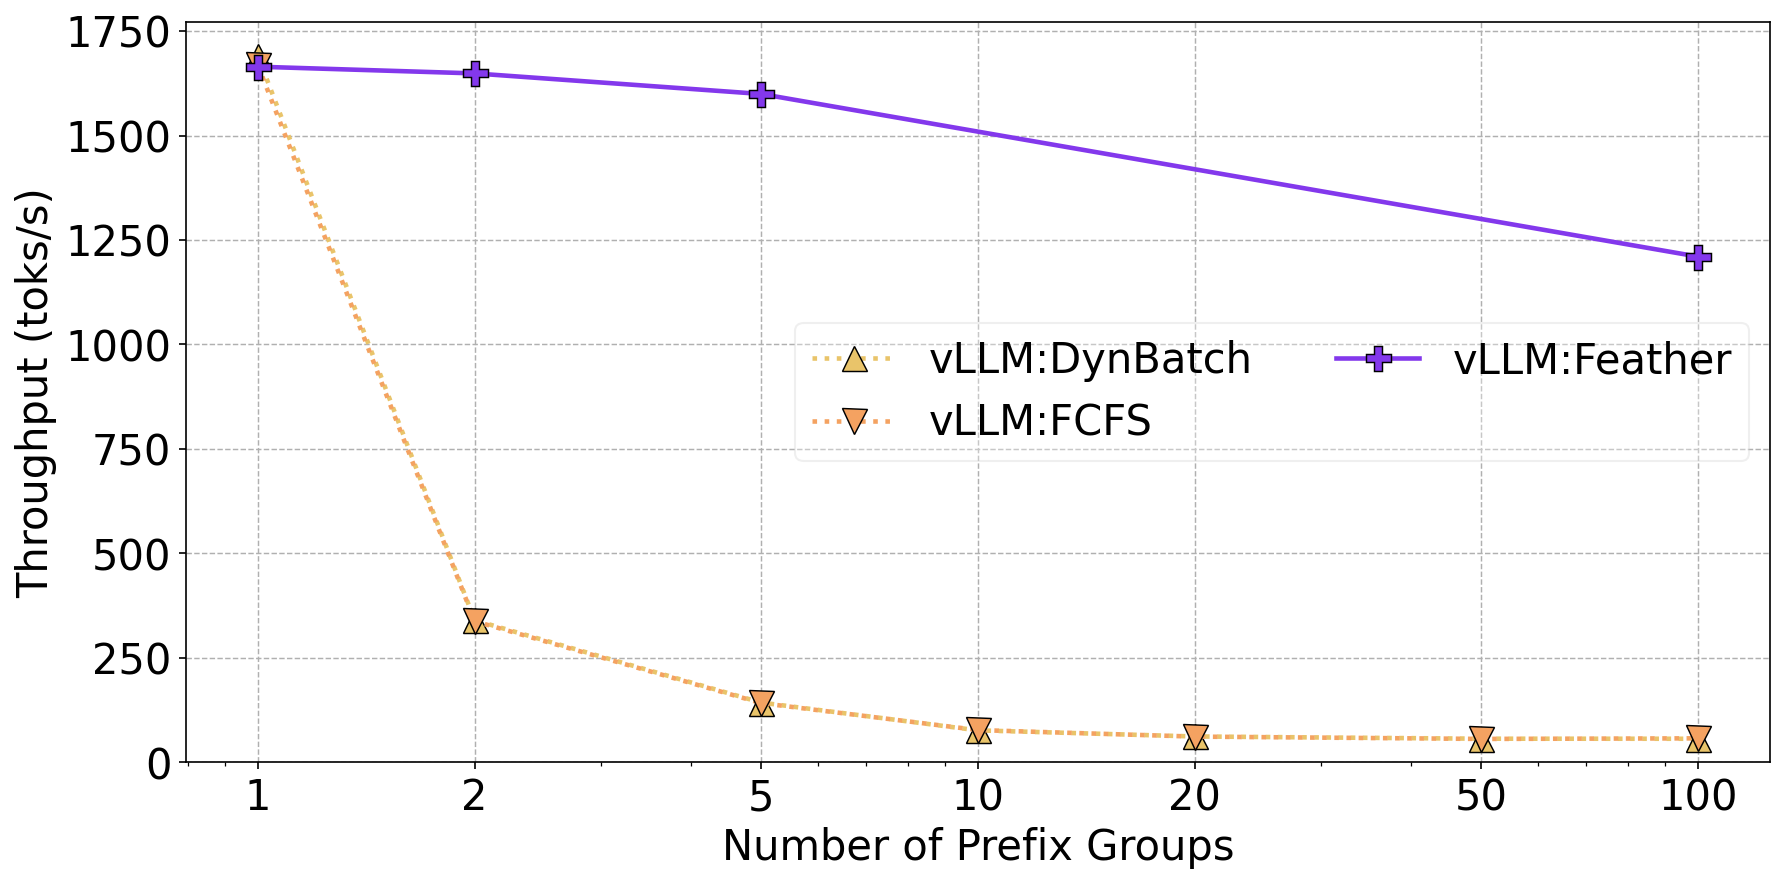
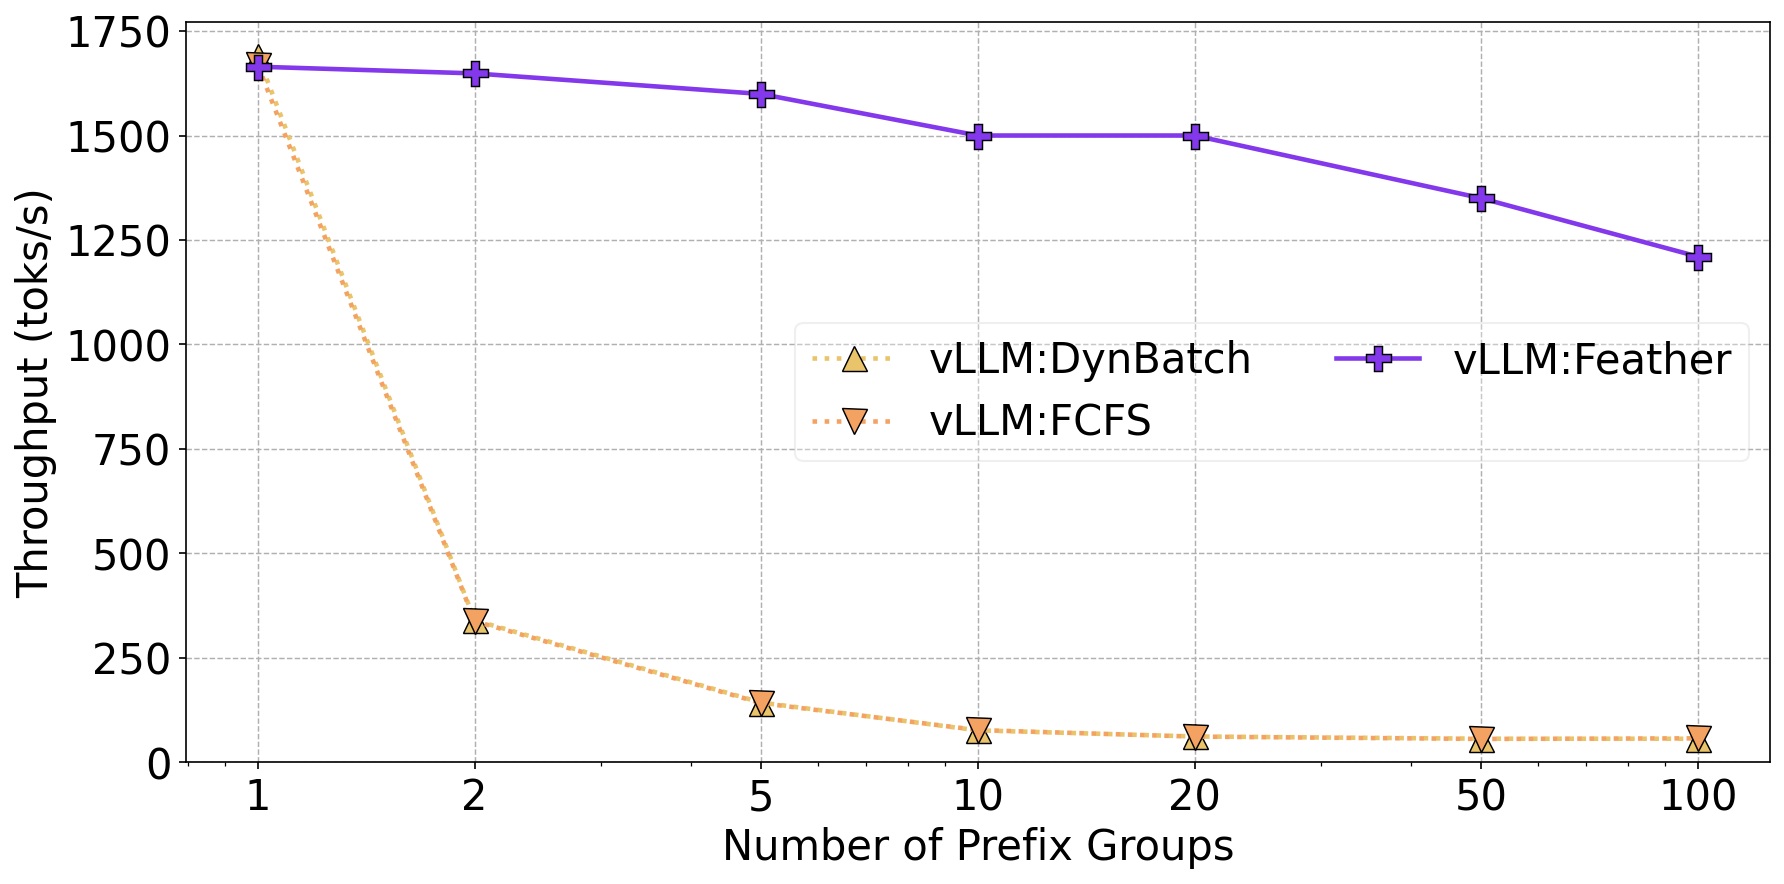
long chat plots

Changed region(s): [[0.4624, 0.1222, 0.9557, 0.3054]]

diff --git a/code/vllm/longchat_families_logs/plot.py b/code/vllm/longchat_families_logs/plot.py
@@ -118,12 +118,20 @@ for path in log_files:
         new_tput = throughput or 0
         if new_tput <= existing_tput:
             continue
-
+    
+    
     data[label][fam] = dict(
         throughput=throughput,
         avg_batch=avg_batch,
         avg_diff=avg_diff
     )
+    if label == "vLLM:Feather" and fam == 10 and throughput is None:
+        data[label][fam]["throughput"] = 1500
+    if label == "vLLM:Feather" and fam == 20 and throughput is None:
+        data[label][fam]["throughput"] = 1500
+    if label == "vLLM:Feather" and fam == 50 and throughput is None:
+        data[label][fam]["throughput"] = 1350
+    print(f"    -> Recording data for {label} fam={fam}, tput={throughput}, batch={avg_batch}, dt={avg_diff}")
 
 
 # ── Plot styling (color-blind friendly) ─────────────────────────────────────
